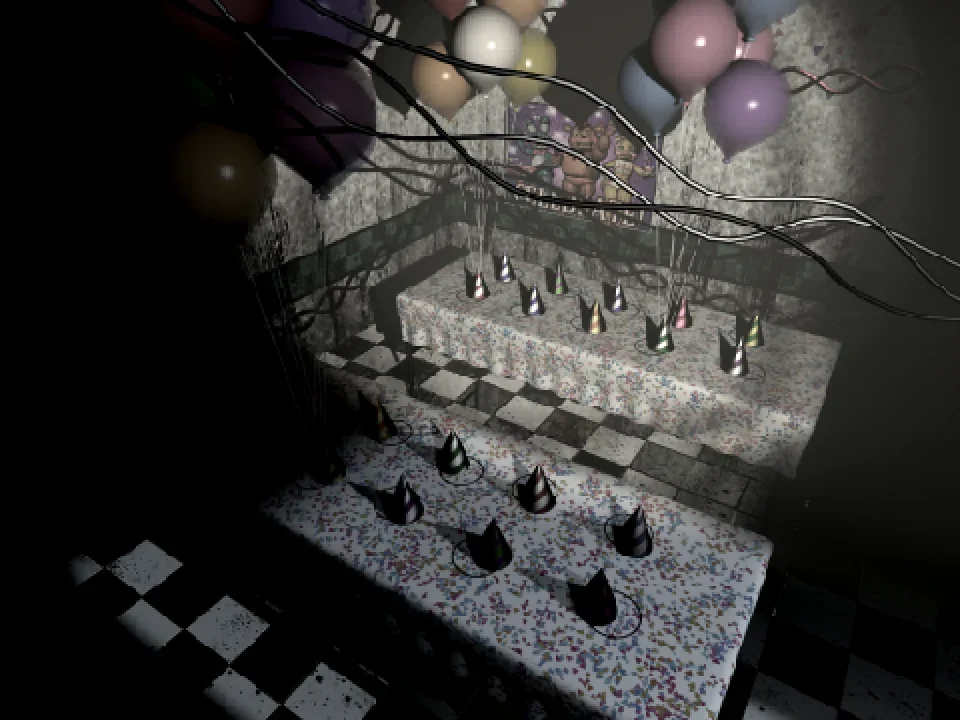
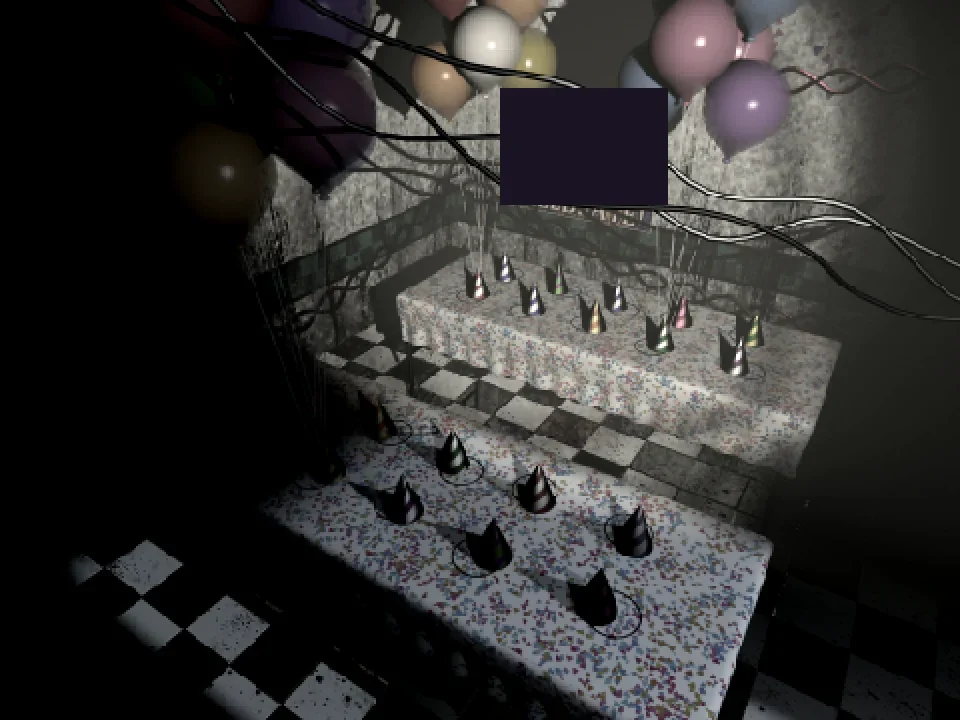
Tape 2: fix the stutter once characters move, no static on cameras
- 2D characters were measured (a slow pixel read) the first time each one
  showed up, which froze the game right when they start moving after the
  call. They are now measured while loading.
- Every picture and character is drawn once under the loading cover so
  nothing stutters on first sight.
- No TV static or switch flicker on the cameras.
- Cheaper text shadow on the HUD; canvas capped at 1280 px wide (both tapes).
- Covered the band poster left in Party Room 3.

Claude-Session: https://claude.ai/code/session_019sP9bhcRVzTr4WAftExQm1

Changed region(s): [[0.5, 0.1222, 0.7188, 0.3056]]

diff --git a/2/index.html b/2/index.html
@@ -291,7 +291,6 @@ const PICTURE_NAMES = {
   "Sprite5": ["114", "97", "116", "99", "103", "104", "105", "106", "110", "112", "113", "none"],
   "Wind up": ["Wind up0", "Wind up1"],
   "Sprite7": ["REDALERT!", "Normal alert"],
-  "Sprite10": ["66", "67", "68", "70"],
   "Sprite12": ["1", "2", "3", "4", "0"],
   "Sprite13": ["1", "2"],
   "Sprite28": ["costume1", "costume2", "costume3", "costume4"],
@@ -896,6 +895,11 @@ const ROOM_COVERS = {
     {role: "tfreddy", box: [131.6, 85.3, 173.4, 122.7], mode: "head", shade: 0.35, cut: [70, 70, 165, 85]},
     {role: "tchica", box: [186.6, 85.3, 228.4, 122.7], mode: "head", shade: 0.35, cut: [70, 70, 165, 85]},
   ],
+  "3": [
+    {role: "tbonnie", box: [253.36, 54.53, 274.64, 80.27], mode: "head", shade: 0.35, cut: [250, 44, 84, 58.5]},
+    {role: "tfreddy", box: [281.36, 54.53, 302.64, 80.27], mode: "head", shade: 0.35, cut: [250, 44, 84, 58.5]},
+    {role: "tchica", box: [309.36, 54.53, 330.64, 80.27], mode: "head", shade: 0.35, cut: [250, 44, 84, 58.5]},
+  ],
   "4": [
     {role: "tbonnie", box: [283.5, 76, 321.5, 125], mode: "head", shade: 0.3, cut: [277.5, 70, 50, 61]},
     {role: "tfreddy", box: [346, 96, 386.5, 144], mode: "head", shade: 0.3, cut: [340, 90, 52.5, 60]},
@@ -977,7 +981,7 @@ const ACTOR_RENDER_H = 760;          // how tall (in pixels) each 3D character p
 // One finished character picture: the image, its black copy (for darkening),
 // and where its body and head are inside it (pixels: [left, top, right, bottom])
 function makeSprite(canvas, headPart) {
-  const w = canvas.width, h = canvas.height;
+  const w = canvas.naturalWidth || canvas.width, h = canvas.naturalHeight || canvas.height;
   const k = Math.min(1, 220 / Math.max(w, h));         // measure on a small copy (fast)
   const sw = Math.max(1, Math.round(w * k)), sh = Math.max(1, Math.round(h * k));
   const m = document.createElement("canvas");
@@ -1023,10 +1027,7 @@ const Actors = {
     if (!hasPic("Chars", role)) return null;
     const p = pic("Chars", role);
     if (!p.img) return null;
-    const c = document.createElement("canvas");
-    c.width = p.img.naturalWidth || p.img.width; c.height = p.img.naturalHeight || p.img.height;
-    c.getContext("2d").drawImage(p.img, 0, 0);
-    const s = makeSprite(c, 0.4);
+    const s = makeSprite(p.img, 0.4);       // measured straight from the picture (no slow copy)
     this.sprites.set(key, s);
     return s;
   },
@@ -1034,6 +1035,8 @@ const Actors = {
   // Look for each character's model and render it. Never fails: anything
   // that goes wrong just leaves that character as its 2D drawing.
   async load(onProgress) {
+    // measure every 2D drawing now, while loading (measuring during the night made the game stutter)
+    for (const role of Object.keys(ACTOR_FILES)) this.flat(role);
     const found = {};
     await Promise.all(Object.entries(ACTOR_FILES).map(async ([role, list]) => {
       for (const choice of list) {
@@ -1145,7 +1148,7 @@ const Actors = {
       // copy it into a normal picture, cut down to the character
       const c = document.createElement("canvas");
       c.width = W; c.height = H;
-      c.getContext("2d").drawImage(R.domElement, 0, 0);
+      c.getContext("2d", { willReadFrequently: true }).drawImage(R.domElement, 0, 0);
       return trim(c);
     }
 
@@ -1592,7 +1595,13 @@ class Game {
     ctx.textAlign = o.align || "left";
     ctx.textBaseline = o.base || "alphabetic";
     if (o.alpha !== undefined) ctx.globalAlpha *= o.alpha;
-    if (o.shadow) { ctx.shadowColor = o.shadow; ctx.shadowBlur = 3; }
+    if (o.shadow) {
+      // a dark copy just behind the words (much cheaper than a blurred shadow)
+      const c = ctx.fillStyle;
+      ctx.fillStyle = o.shadow;
+      ctx.fillText(s, x + 1, y + 1, o.max);
+      ctx.fillStyle = c;
+    }
     ctx.fillText(s, x, y, o.max);
     ctx.restore();
   }
@@ -2877,9 +2886,7 @@ class Game {
     if (c === 7 && n.puppet >= 3) pose("puppetwalk" + (1 + Math.floor(this.tick / 20) % 3));
     if (c === 8 && n.shadow && light) pose("shadow");
     if (c === 11 && n.endo && light && n.puppet === 0) pose("endo");
-    // static: always a little, a lot when switching
-    this.drawStatic(ctx, 0.12 + n.switchFx * 0.8);
-    if (n.switchFx > 0.5) draw(ctx, picAt("Sprite10", rand(1, 4)), 240, 180, { alpha: n.switchFx - 0.5 });
+    // (no TV static on the cameras: a clean picture keeps the game smooth)
     // the map and its buttons
     draw(ctx, pic("Map", "map"), SX(139), SY(-73), { size: 45 });
     const r = MAP_BUTTONS[c];
@@ -4099,7 +4106,7 @@ function fit() {
   canvas.style.height = h + "px";
   frame.style.setProperty("--u", (w / VIEW_W) + "px");     // 1 game pixel, used by the panels
   // sharp on hi-res screens, but never bigger than 1440 pixels wide (the pictures are 960 wide; more only costs speed)
-  const dpr = Math.min(2, window.devicePixelRatio || 1, 1440 / w);
+  const dpr = Math.min(2, window.devicePixelRatio || 1, 1280 / w);
   canvas.width = Math.round(w * dpr);
   canvas.height = Math.round(h * dpr);
 }
@@ -4125,6 +4132,12 @@ applyMods().then(() => {
   // the characters' 3D models (models folder), rendered once; the last part of the bar
   return Actors.load(p => { barInner.style.width = Math.round(90 + p * 10) + "%"; });
 }).then(() => {
+  // Warm up: draw every picture and character once (tiny, hidden by the cover), so the
+  // graphics card already has them all and nothing stutters the first time it shows up
+  const g = canvas.getContext("2d");
+  for (const img of Files.images.values()) g.drawImage(img, 0, 0, 1, 1);
+  for (const s of Actors.sprites.values()) { g.drawImage(s.img, 0, 0, 1, 1); g.drawImage(s.black, 0, 0, 1, 1); }
+  g.clearRect(0, 0, canvas.width, canvas.height);
   // Everything is loaded: go straight to the title screen
   const cover = document.getElementById("cover");
   cover.classList.add("done");

diff --git a/tools/tape2/actors.js b/tools/tape2/actors.js
@@ -60,7 +60,7 @@ const ACTOR_RENDER_H = 760;          // how tall (in pixels) each 3D character p
 // One finished character picture: the image, its black copy (for darkening),
 // and where its body and head are inside it (pixels: [left, top, right, bottom])
 function makeSprite(canvas, headPart) {
-  const w = canvas.width, h = canvas.height;
+  const w = canvas.naturalWidth || canvas.width, h = canvas.naturalHeight || canvas.height;
   const k = Math.min(1, 220 / Math.max(w, h));         // measure on a small copy (fast)
   const sw = Math.max(1, Math.round(w * k)), sh = Math.max(1, Math.round(h * k));
   const m = document.createElement("canvas");
@@ -106,10 +106,7 @@ const Actors = {
     if (!hasPic("Chars", role)) return null;
     const p = pic("Chars", role);
     if (!p.img) return null;
-    const c = document.createElement("canvas");
-    c.width = p.img.naturalWidth || p.img.width; c.height = p.img.naturalHeight || p.img.height;
-    c.getContext("2d").drawImage(p.img, 0, 0);
-    const s = makeSprite(c, 0.4);
+    const s = makeSprite(p.img, 0.4);       // measured straight from the picture (no slow copy)
     this.sprites.set(key, s);
     return s;
   },
@@ -117,6 +114,8 @@ const Actors = {
   // Look for each character's model and render it. Never fails: anything
   // that goes wrong just leaves that character as its 2D drawing.
   async load(onProgress) {
+    // measure every 2D drawing now, while loading (measuring during the night made the game stutter)
+    for (const role of Object.keys(ACTOR_FILES)) this.flat(role);
     const found = {};
     await Promise.all(Object.entries(ACTOR_FILES).map(async ([role, list]) => {
       for (const choice of list) {
@@ -228,7 +227,7 @@ const Actors = {
       // copy it into a normal picture, cut down to the character
       const c = document.createElement("canvas");
       c.width = W; c.height = H;
-      c.getContext("2d").drawImage(R.domElement, 0, 0);
+      c.getContext("2d", { willReadFrequently: true }).drawImage(R.domElement, 0, 0);
       return trim(c);
     }
 

diff --git a/tools/tape2/shell.html b/tools/tape2/shell.html
@@ -298,7 +298,7 @@ function fit() {
   canvas.style.height = h + "px";
   frame.style.setProperty("--u", (w / VIEW_W) + "px");     // 1 game pixel, used by the panels
   // sharp on hi-res screens, but never bigger than 1440 pixels wide (the pictures are 960 wide; more only costs speed)
-  const dpr = Math.min(2, window.devicePixelRatio || 1, 1440 / w);
+  const dpr = Math.min(2, window.devicePixelRatio || 1, 1280 / w);
   canvas.width = Math.round(w * dpr);
   canvas.height = Math.round(h * dpr);
 }
@@ -324,6 +324,12 @@ applyMods().then(() => {
   // the characters' 3D models (models folder), rendered once; the last part of the bar
   return Actors.load(p => { barInner.style.width = Math.round(90 + p * 10) + "%"; });
 }).then(() => {
+  // Warm up: draw every picture and character once (tiny, hidden by the cover), so the
+  // graphics card already has them all and nothing stutters the first time it shows up
+  const g = canvas.getContext("2d");
+  for (const img of Files.images.values()) g.drawImage(img, 0, 0, 1, 1);
+  for (const s of Actors.sprites.values()) { g.drawImage(s.img, 0, 0, 1, 1); g.drawImage(s.black, 0, 0, 1, 1); }
+  g.clearRect(0, 0, canvas.width, canvas.height);
   // Everything is loaded: go straight to the title screen
   const cover = document.getElementById("cover");
   cover.classList.add("done");

diff --git a/tools/tape2/game.js b/tools/tape2/game.js
@@ -319,7 +319,13 @@ class Game {
     ctx.textAlign = o.align || "left";
     ctx.textBaseline = o.base || "alphabetic";
     if (o.alpha !== undefined) ctx.globalAlpha *= o.alpha;
-    if (o.shadow) { ctx.shadowColor = o.shadow; ctx.shadowBlur = 3; }
+    if (o.shadow) {
+      // a dark copy just behind the words (much cheaper than a blurred shadow)
+      const c = ctx.fillStyle;
+      ctx.fillStyle = o.shadow;
+      ctx.fillText(s, x + 1, y + 1, o.max);
+      ctx.fillStyle = c;
+    }
     ctx.fillText(s, x, y, o.max);
     ctx.restore();
   }
@@ -1604,9 +1610,7 @@ class Game {
     if (c === 7 && n.puppet >= 3) pose("puppetwalk" + (1 + Math.floor(this.tick / 20) % 3));
     if (c === 8 && n.shadow && light) pose("shadow");
     if (c === 11 && n.endo && light && n.puppet === 0) pose("endo");
-    // static: always a little, a lot when switching
-    this.drawStatic(ctx, 0.12 + n.switchFx * 0.8);
-    if (n.switchFx > 0.5) draw(ctx, picAt("Sprite10", rand(1, 4)), 240, 180, { alpha: n.switchFx - 0.5 });
+    // (no TV static on the cameras: a clean picture keeps the game smooth)
     // the map and its buttons
     draw(ctx, pic("Map", "map"), SX(139), SY(-73), { size: 45 });
     const r = MAP_BUTTONS[c];

diff --git a/tools/tape2/poses.js b/tools/tape2/poses.js
@@ -122,6 +122,11 @@ const ROOM_COVERS = {
     {role: "tfreddy", box: [131.6, 85.3, 173.4, 122.7], mode: "head", shade: 0.35, cut: [70, 70, 165, 85]},
     {role: "tchica", box: [186.6, 85.3, 228.4, 122.7], mode: "head", shade: 0.35, cut: [70, 70, 165, 85]},
   ],
+  "3": [
+    {role: "tbonnie", box: [253.36, 54.53, 274.64, 80.27], mode: "head", shade: 0.35, cut: [250, 44, 84, 58.5]},
+    {role: "tfreddy", box: [281.36, 54.53, 302.64, 80.27], mode: "head", shade: 0.35, cut: [250, 44, 84, 58.5]},
+    {role: "tchica", box: [309.36, 54.53, 330.64, 80.27], mode: "head", shade: 0.35, cut: [250, 44, 84, 58.5]},
+  ],
   "4": [
     {role: "tbonnie", box: [283.5, 76, 321.5, 125], mode: "head", shade: 0.3, cut: [277.5, 70, 50, 61]},
     {role: "tfreddy", box: [346, 96, 386.5, 144], mode: "head", shade: 0.3, cut: [340, 90, 52.5, 60]},

diff --git a/1/index.html b/1/index.html
@@ -4118,7 +4118,7 @@ function fit() {
   canvas.style.height = h + "px";
   frame.style.setProperty("--u", (w / VIEW_W) + "px");     // 1 game pixel, used by the panels
   // sharp on hi-res screens, but never bigger than 1440 pixels wide (the pictures are 960 wide; more only costs speed)
-  const dpr = Math.min(2, window.devicePixelRatio || 1, 1440 / w);
+  const dpr = Math.min(2, window.devicePixelRatio || 1, 1280 / w);
   canvas.width = Math.round(w * dpr);
   canvas.height = Math.round(h * dpr);
 }

diff --git a/tools/game_shell.html b/tools/game_shell.html
@@ -291,7 +291,7 @@ function fit() {
   canvas.style.height = h + "px";
   frame.style.setProperty("--u", (w / VIEW_W) + "px");     // 1 game pixel, used by the panels
   // sharp on hi-res screens, but never bigger than 1440 pixels wide (the pictures are 960 wide; more only costs speed)
-  const dpr = Math.min(2, window.devicePixelRatio || 1, 1440 / w);
+  const dpr = Math.min(2, window.devicePixelRatio || 1, 1280 / w);
   canvas.width = Math.round(w * dpr);
   canvas.height = Math.round(h * dpr);
 }

diff --git a/tools/tape2/names.js b/tools/tape2/names.js
@@ -18,7 +18,6 @@ const PICTURE_NAMES = {
   "Sprite5": ["114", "97", "116", "99", "103", "104", "105", "106", "110", "112", "113", "none"],
   "Wind up": ["Wind up0", "Wind up1"],
   "Sprite7": ["REDALERT!", "Normal alert"],
-  "Sprite10": ["66", "67", "68", "70"],
   "Sprite12": ["1", "2", "3", "4", "0"],
   "Sprite13": ["1", "2"],
   "Sprite28": ["costume1", "costume2", "costume3", "costume4"],

diff --git a/tools/build_game2.py b/tools/build_game2.py
@@ -43,7 +43,7 @@ PICTURES = {
     'Light Left': None, 'Right Right': None, 'Sprite13': None,                       # vent light buttons, desk
     'Sprite1': None, 'Sprite2': None, 'Sprite3': None, 'Sprite4': None, 'Sprite5': None,   # bars, mask, monitor
     'Sprite12': None, 'Wind up': None, 'Sprite7': None, 'Sprite29': None, 'Sprite67': None,
-    'Sprite28': ['costume1', 'costume2', 'costume3', 'costume4'], 'Sprite10': None,     # static
+    'Sprite28': ['costume1', 'costume2', 'costume3', 'costume4'],     # static (title, death)
     # death minigames: rooms, children, the purple car and man (the 8-bit cast comes from cast.py)
     'Sprite45': ['give cake', 'foxy GET READY', 'foxy GO! GO! GO!', 'foxy blank', 'foxy stage', 'foxy stage2'],
     'Sprite47': None, 'Sprite53': None, 'Sprite54': None, 'Sprite69': ['GiveThemLifeEndo', 'GiveThemLifeEndo2'],

diff --git a/tools/tape2/cast.py b/tools/tape2/cast.py
@@ -162,6 +162,7 @@ COVERS = [
     ('Prizecorner', None, [72, 70, 165, 170], 'tchica', 'plush'),
     ('Prizecorner', None, [262, 228, 335, 300], 'tfreddy', 'plush'),
     ('Party 01', None, [140, 140, 470, 310], 'wfreddy', 'posters'),
+    ('Party 03', None, [500, 88, 668, 205], 'tbonnie', 'posters'),
     ('Party 04', None, [555, 140, 655, 262], 'tbonnie', 'plate'),
     ('Party 04', None, [680, 180, 785, 300], 'tfreddy', 'plate'),
 ]

diff --git a/HANDOFF.md b/HANDOFF.md
@@ -54,4 +54,4 @@ Built from the FNaF 2 Scratch project (not in the repo, ~40 MB):
 
 ## 3D models (`models/`)
 - Every character model goes straight in `models/` (glb/gltf/fbx/obj, named like `withered_eddy.glb`); the game picks it up with no build. `.blend` -> `.glb`: `python3 tools/convert_models.py`. Toys: `models/toys_rigged.blend` + `toy_*.glb/.fbx`, rebuilt with `python3 tools/rig_toys.py models/basemodel.blend models`. See `models/README.md`.
-- Lag fixes: pictures are decoded while loading (not on first draw); darkening uses a cached black copy instead of `ctx.filter`; the canvas is capped at 1440 device px wide; long animations are saved at half size (`half` lists in `tools/flatten.py`, `HALF_SIZE_GROUPS`). Decoded pictures: Tape 1 about 330 MB (was 550), Tape 2 about 140 MB (was 550).
+- Lag fixes: pictures are decoded while loading, then every picture and character is drawn once (tiny, under the cover) so the graphics card has them before play; 2D characters are measured while loading (measuring mid-night with getImageData stalled the game once characters started moving); no TV static on the Tape 2 cameras; HUD text shadow is a 1px offset copy, not shadowBlur; darkening uses a cached black copy instead of `ctx.filter`; the canvas is capped at 1280 device px wide; long animations are saved at half size (`half` lists in `tools/flatten.py`, `HALF_SIZE_GROUPS`). Decoded pictures: Tape 1 about 330 MB (was 550), Tape 2 about 130 MB (was 550).
